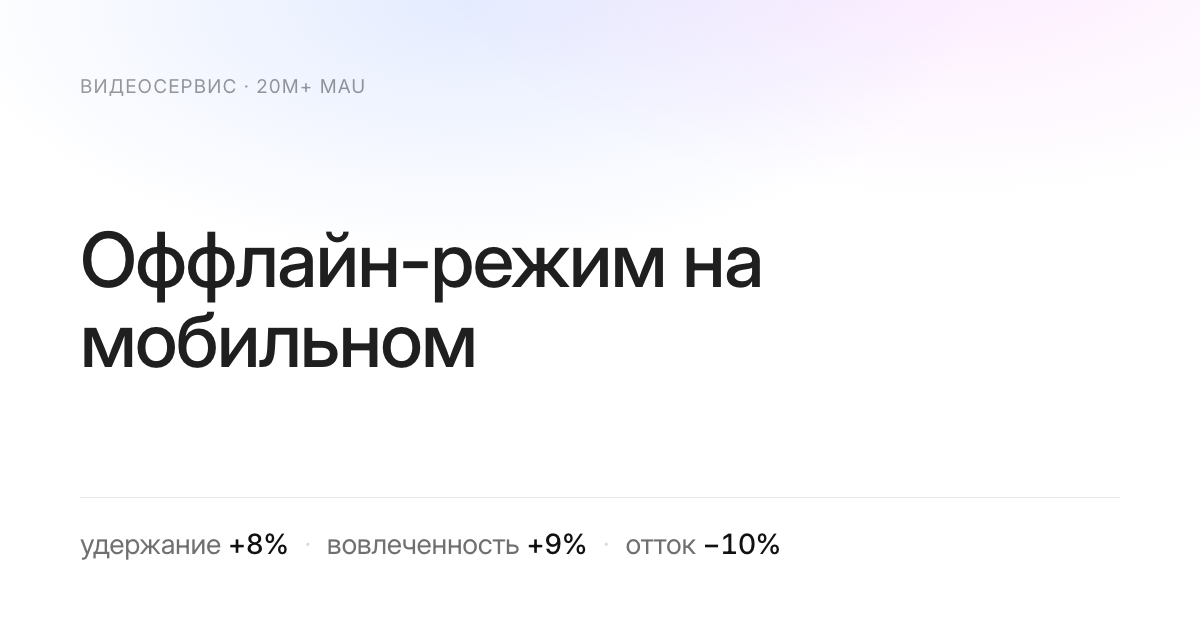
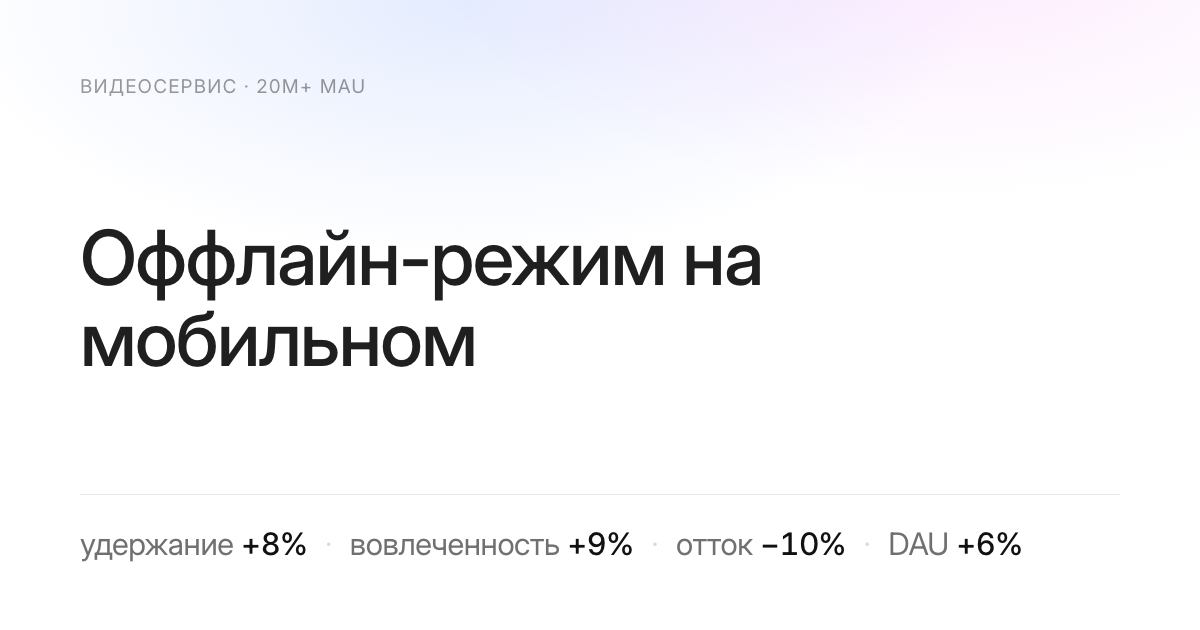
refactor(og): короткие метрики в превью и нейтральный site_name
Метрика в одну строку читается только пока она короткая: «конверсия в чат
5% → 15%» глаз проходит как текст, «конверсия ×3» — как цифру. Везде формат
«слово + число», за счет экономии влезли LTV и четвертая метрика.

diff --git a/case-wikkeo-monetization.html b/case-wikkeo-monetization.html
@@ -9,15 +9,15 @@
 
 <meta property="og:type" content="article">
 <meta property="og:title" content="Первая монетизация маркетплейса">
-<meta property="og:description" content="0 → 1 платный продукт · 80% расходов покрывает монетизация">
+<meta property="og:description" content="0 → 1 платный продукт · 80% расходов площадки">
 <meta property="og:locale" content="ru_RU">
-<meta property="og:site_name" content="Портфолио продуктового дизайнера">
+<meta property="og:site_name" content="Продуктовый дизайнер">
 <!-- Превью ссылки. Адрес абсолютный — он же меняется вместе с og:url
      при переезде на usoltsev.design. -->
 <meta property="og:image" content="https://timofeyusoltsev.github.io/assets/og/og-monetization.png">
 <meta property="og:image:width" content="1200">
 <meta property="og:image:height" content="630">
-<meta property="og:image:alt" content="Первая монетизация маркетплейса: 0 → 1 платный продукт, 80% расходов покрывает монетизация">
+<meta property="og:image:alt" content="Первая монетизация маркетплейса: 0 → 1 платный продукт, 80% расходов площадки">
 <meta name="twitter:card" content="summary_large_image">
 <meta name="theme-color" content="#FFFFFF">
 

diff --git a/index.html b/index.html
@@ -9,15 +9,15 @@
 
 <meta property="og:type" content="profile">
 <meta property="og:title" content="Проектирую сценарии, которые двигают выручку">
-<meta property="og:description" content="20M+ MAU · конверсия в чат 5% → 15% · средний чек +21%">
+<meta property="og:description" content="20M+ MAU · LTV +21% · конверсия ×3 · отток −11%">
 <meta property="og:locale" content="ru_RU">
-<meta property="og:site_name" content="Портфолио продуктового дизайнера">
+<meta property="og:site_name" content="Продуктовый дизайнер">
 <!-- Превью ссылки. Адрес абсолютный — он же меняется вместе с og:url
      при переезде на usoltsev.design. -->
 <meta property="og:image" content="https://timofeyusoltsev.github.io/assets/og/og-home.png">
 <meta property="og:image:width" content="1200">
 <meta property="og:image:height" content="630">
-<meta property="og:image:alt" content="Проектирую сценарии, которые двигают выручку. 20M+ MAU, конверсия в чат 5% → 15%, средний чек +21%">
+<meta property="og:image:alt" content="Проектирую сценарии, которые двигают выручку. 20M+ MAU, LTV +21%, конверсия ×3, отток −11%">
 <meta name="twitter:card" content="summary_large_image">
 <meta name="theme-color" content="#FFFFFF">
 

diff --git a/case-premier-subscription.html b/case-premier-subscription.html
@@ -9,15 +9,15 @@
 
 <meta property="og:type" content="article">
 <meta property="og:title" content="Единая подписка из трех сервисов">
-<meta property="og:description" content="Конверсия покупки +14% · средний чек +21% · отток −11%">
+<meta property="og:description" content="Конверсия +14% · чек +21% · LTV +21% · отток −11%">
 <meta property="og:locale" content="ru_RU">
-<meta property="og:site_name" content="Портфолио продуктового дизайнера">
+<meta property="og:site_name" content="Продуктовый дизайнер">
 <!-- Превью ссылки. Адрес абсолютный — он же меняется вместе с og:url
      при переезде на usoltsev.design. -->
 <meta property="og:image" content="https://timofeyusoltsev.github.io/assets/og/og-subscription.png">
 <meta property="og:image:width" content="1200">
 <meta property="og:image:height" content="630">
-<meta property="og:image:alt" content="Единая подписка из трех сервисов: конверсия покупки +14%, средний чек +21%, отток −11%">
+<meta property="og:image:alt" content="Единая подписка из трех сервисов: конверсия +14%, чек +21%, LTV +21%, отток −11%">
 <meta name="twitter:card" content="summary_large_image">
 <meta name="theme-color" content="#FFFFFF">
 

diff --git a/case-premier-offline.html b/case-premier-offline.html
@@ -9,15 +9,15 @@
 
 <meta property="og:type" content="article">
 <meta property="og:title" content="Оффлайн-режим на мобильном">
-<meta property="og:description" content="Удержание +8% · вовлеченность +9% · отток −10%">
+<meta property="og:description" content="Удержание +8% · вовлеченность +9% · отток −10% · DAU +6%">
 <meta property="og:locale" content="ru_RU">
-<meta property="og:site_name" content="Портфолио продуктового дизайнера">
+<meta property="og:site_name" content="Продуктовый дизайнер">
 <!-- Превью ссылки. Адрес абсолютный — он же меняется вместе с og:url
      при переезде на usoltsev.design. -->
 <meta property="og:image" content="https://timofeyusoltsev.github.io/assets/og/og-offline.png">
 <meta property="og:image:width" content="1200">
 <meta property="og:image:height" content="630">
-<meta property="og:image:alt" content="Оффлайн-режим на мобильном: удержание +8%, вовлеченность +9%, отток −10%">
+<meta property="og:image:alt" content="Оффлайн-режим на мобильном: удержание +8%, вовлеченность +9%, отток −10%, DAU +6%">
 <meta name="twitter:card" content="summary_large_image">
 <meta name="theme-color" content="#FFFFFF">
 

diff --git a/case-wikkeo-bargaining.html b/case-wikkeo-bargaining.html
@@ -9,15 +9,15 @@
 
 <meta property="og:type" content="article">
 <meta property="og:title" content="Механика торгов: больше сделок — активнее чаты">
-<meta property="og:description" content="Конверсия в чат 5% → 15%+ · 7 000 продаж за первый месяц">
+<meta property="og:description" content="Конверсия в чат ×3 · 7 000 продаж за месяц">
 <meta property="og:locale" content="ru_RU">
-<meta property="og:site_name" content="Портфолио продуктового дизайнера">
+<meta property="og:site_name" content="Продуктовый дизайнер">
 <!-- Превью ссылки. Адрес абсолютный — он же меняется вместе с og:url
      при переезде на usoltsev.design. -->
 <meta property="og:image" content="https://timofeyusoltsev.github.io/assets/og/og-bargaining.png">
 <meta property="og:image:width" content="1200">
 <meta property="og:image:height" content="630">
-<meta property="og:image:alt" content="Механика торгов: конверсия в чат 5% → 15%+, 7 000 продаж за первый месяц">
+<meta property="og:image:alt" content="Механика торгов: конверсия в чат ×3, 7 000 продаж за месяц">
 <meta name="twitter:card" content="summary_large_image">
 <meta name="theme-color" content="#FFFFFF">
 
